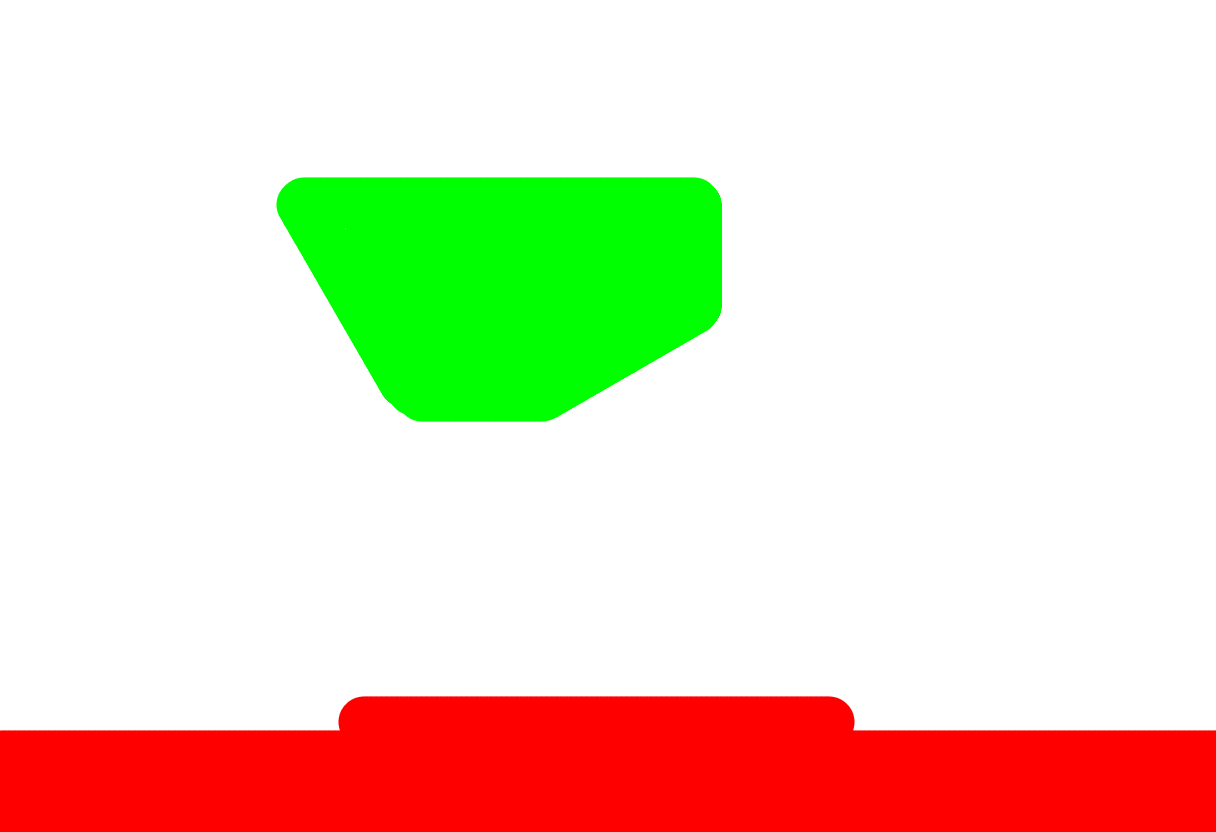
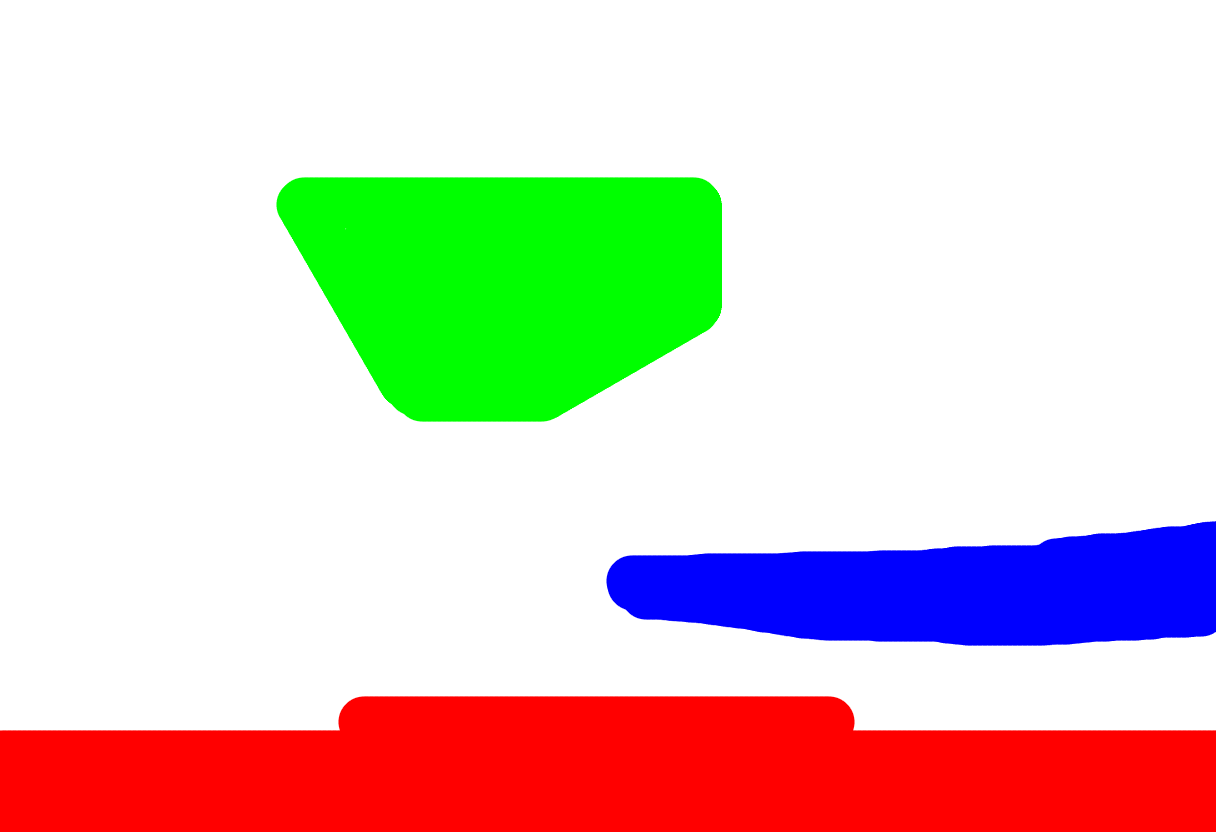
idols draft

Changed region(s): [[0.5, 0.625, 1.0, 0.7812]]

diff --git a/player-vue/src/rooms.js b/player-vue/src/rooms.js
@@ -8,10 +8,13 @@ import a1_telescope_empty from '../../content/a1_telescope_empty/a1_telescope_em
 import a1_telescope_moon from '../../content/a1_telescope_moon/a1_telescope_moon.json';
 import a1_telescope_planet from '../../content/a1_telescope_planet/a1_telescope_planet.json';
 import a2_forest_path from '../../content/a2_forest_path/a2_forest_path.json';
+import a2_idols from '../../content/a2_idols/a2_idols.json';
+import a2_idols_guardian from '../../content/a2_idols_guardian/a2_idols_guardian.json';
 import a2_observatory_exterior from '../../content/a2_observatory_exterior/a2_observatory_exterior.json';
 import a2_town_left from '../../content/a2_town_left/a2_town_left.json';
 import a2_town_right from '../../content/a2_town_right/a2_town_right.json';
 import a2_weird_guy from '../../content/a2_weird_guy/a2_weird_guy.json';
+import a2_weird_guy_art from '../../content/a2_weird_guy_art/a2_weird_guy_art.json';
 
 const rooms = [
   a1_observatory_kitchen,
@@ -24,9 +27,12 @@ const rooms = [
   a1_telescope_moon,
   a1_telescope_planet,
   a2_forest_path,
+  a2_idols_guardian,
+  a2_idols,
   a2_observatory_exterior,
   a2_town_left,
   a2_town_right,
+  a2_weird_guy_art,
   a2_weird_guy,
 ];
 
